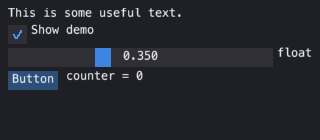
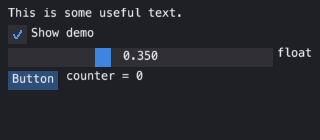
Text in a frame is inset by frame_padding.y
Fields, check-box labels, menu items and combo previews drew their text
against the frame's top edge, frame_padding.y above where the reference puts
it, so it sat high in its box beside a button whose caption is centred. The
README quick-start screenshot is regenerated (the check-box label moves
down 3 px). Suite: 1748 passed.

Changed region(s): [[0.0938, 0.1714, 0.3125, 0.2857]]

diff --git a/emtk/im_widgets.py b/emtk/im_widgets.py
@@ -676,7 +676,7 @@ def checkbox(label: str, value: bool) -> tuple[bool, bool]:
         ctx.draw.add_line((mark[0] + height * 0.45, mark[1] + height - pad),
                           (mark[0] + height - pad, mark[1] + pad), _col(Col.CHECK_MARK), 2.0)
     if shown:
-        ctx.draw.add_text((mark[0] + height + ctx.style.item_inner_spacing[0], box[1]),
+        ctx.draw.add_text((mark[0] + height + ctx.style.item_inner_spacing[0], box[1] + ctx.style.frame_padding[1]),
                           _col(Col.TEXT), shown)
     return (pressed, (not value) if pressed else value)
 
@@ -851,7 +851,7 @@ def selectable(label: str, selected: bool = False, size=None) -> bool:
     if selected or hovered:
         ctx.draw.add_rect_filled((box[0], box[1]), (box[0] + box[2], box[1] + box[3]),
                                  _col(Col.HEADER) if selected else _col(Col.HEADER_HOVERED), 0.0)
-    ctx.draw.add_text((box[0] + ctx.style.frame_padding[0], box[1]), _col(Col.TEXT),
+    ctx.draw.add_text((box[0] + ctx.style.frame_padding[0], box[1] + ctx.style.frame_padding[1]), _col(Col.TEXT),
                       _visible_label(label))
     return pressed
 
@@ -925,7 +925,7 @@ def collapsing_header(label: str, open_: Optional[bool] = None) -> bool:
                              _col(Col.BUTTON_HOVERED) if hovered else _col(Col.BUTTON),
                              ctx.style.frame_rounding)
     arrow = "v" if is_open else ">"
-    ctx.draw.add_text((box[0] + ctx.style.frame_padding[0], box[1]), _col(Col.TEXT),
+    ctx.draw.add_text((box[0] + ctx.style.frame_padding[0], box[1] + ctx.style.frame_padding[1]), _col(Col.TEXT),
                       f"{arrow} {_visible_label(label)}")
     return is_open
 
@@ -1152,7 +1152,7 @@ def input_text(label: str, value: str, hint: str = "", flags: int = 0) -> tuple[
     # Clipped to the field, as the reference's InputText is: a value longer
     # than its box used to run over whatever stood beside it.
     ctx.draw.push_clip_rect((box[0], box[1]), (box[0] + box[2], box[1] + box[3]))
-    ctx.draw.add_text((box[0] + ctx.style.frame_padding[0], box[1]),
+    ctx.draw.add_text((box[0] + ctx.style.frame_padding[0], box[1] + ctx.style.frame_padding[1]),
                       _col(Col.TEXT) if value else _col(Col.TEXT_DISABLED), shown)
     if focused:
         caret = box[0] + ctx.style.frame_padding[0] + ctx.draw.calc_text_size(value)[0]
@@ -1572,7 +1572,7 @@ def begin_menu(label: str, enabled: bool = True) -> bool:
     if hovered or is_open:
         ctx.draw.add_rect_filled((box[0], box[1]), (box[0] + box[2], box[1] + box[3]),
                                  _col(Col.HEADER_HOVERED if hovered else Col.HEADER), 0.0)
-    ctx.draw.add_text((box[0] + ctx.style.frame_padding[0], box[1]),
+    ctx.draw.add_text((box[0] + ctx.style.frame_padding[0], box[1] + ctx.style.frame_padding[1]),
                       _col(Col.TEXT if enabled else Col.TEXT_DISABLED), shown)
     if is_open:
         ctx.push_id(label)
@@ -1596,7 +1596,7 @@ def menu_item(label: str, shortcut: str = "", selected: bool = False,
                                  _col(Col.HEADER_HOVERED), 0.0)
     colour = _col(Col.TEXT if enabled else Col.TEXT_DISABLED)
     mark = "* " if selected else "  "
-    ctx.draw.add_text((box[0] + ctx.style.frame_padding[0], box[1]), colour,
+    ctx.draw.add_text((box[0] + ctx.style.frame_padding[0], box[1] + ctx.style.frame_padding[1]), colour,
                       mark + _visible_label(label))
     if shortcut:
         width = ctx.draw.calc_text_size(shortcut)[0]
@@ -1631,7 +1631,7 @@ def begin_tab_item(label: str) -> bool:
     selected = store.setdefault("selected", shown) == shown
     ctx.draw.add_rect_filled((box[0], box[1]), (box[0] + box[2], box[1] + box[3]),
                              _col(Col.TAB_SELECTED if selected else Col.TAB), 0.0)
-    ctx.draw.add_text((box[0] + ctx.style.frame_padding[0], box[1]), _col(Col.TEXT),
+    ctx.draw.add_text((box[0] + ctx.style.frame_padding[0], box[1] + ctx.style.frame_padding[1]), _col(Col.TEXT),
                       shown)
     same_line()
     return selected
@@ -1654,7 +1654,7 @@ def begin_combo(label: str, preview: str) -> bool:
     ctx.draw.add_rect_filled((box[0], box[1]), (box[0] + box[2], box[1] + box[3]),
                              _col(Col.FRAME_BG_HOVERED if hovered else Col.FRAME_BG),
                              ctx.style.frame_rounding)
-    ctx.draw.add_text((box[0] + ctx.style.frame_padding[0], box[1]), _col(Col.TEXT),
+    ctx.draw.add_text((box[0] + ctx.style.frame_padding[0], box[1] + ctx.style.frame_padding[1]), _col(Col.TEXT),
                       str(preview))
     if store.get("open"):
         ctx.push_id(label)
@@ -2986,7 +2986,7 @@ def plot_lines(label: str, values, overlay: str = "", size=None) -> None:
               for i, v in enumerate(points)]
         ctx.draw.add_polyline(xy, _col(Col.PLOT_LINES), 0, 1.0)
     if overlay:
-        ctx.draw.add_text((box[0] + ctx.style.frame_padding[0], box[1]),
+        ctx.draw.add_text((box[0] + ctx.style.frame_padding[0], box[1] + ctx.style.frame_padding[1]),
                           _col(Col.TEXT), overlay)
     # Drawn, not submitted. A label added with `text()` becomes an item of its
     # own, and then `is_item_hovered()` after a plot asks about the *label* --
@@ -3019,7 +3019,7 @@ def plot_histogram(label: str, values, overlay: str = "", size=None) -> None:
                 (box[0] + (index + 1) * width - 1.0, box[1] + box[3]),
                 _col(Col.PLOT_HISTOGRAM), 0.0)
     if overlay:
-        ctx.draw.add_text((box[0] + ctx.style.frame_padding[0], box[1]),
+        ctx.draw.add_text((box[0] + ctx.style.frame_padding[0], box[1] + ctx.style.frame_padding[1]),
                           _col(Col.TEXT), overlay)
 
 
@@ -4177,7 +4177,7 @@ def begin_docked(name: str, dock_id: int = 0) -> bool:
                                  _col(Col.TAB_SELECTED if selected
                                       else (Col.HEADER_HOVERED if hovered else Col.TAB)),
                                  0.0)
-        ctx.draw.add_text((box[0] + ctx.style.frame_padding[0], box[1]),
+        ctx.draw.add_text((box[0] + ctx.style.frame_padding[0], box[1] + ctx.style.frame_padding[1]),
                           _col(Col.TEXT), shown)
 
     on_top = node["selected"] == key

diff --git a/tests/test_emtk_im.py b/tests/test_emtk_im.py
@@ -233,3 +233,21 @@ def test_a_long_value_is_clipped_to_its_field():
         emtk.end()
     clips = [c for c in painter.calls if c[0] == "push_clip"]
     assert any(abs(c[3] - 40.0) < 0.5 for c in clips)
+
+
+def test_text_sits_in_the_middle_of_its_frame():
+    """A field's text is inset by frame_padding.y, as a button's is centred:
+    it was drawn against the frame's top edge."""
+    painter = RecordingPainter()
+    with emtk.frame(painter, (0, 0, 300, 120)) as ctx:
+        emtk.begin("w", (0, 0, 300, 120))
+        emtk.input_text("##f", "value")
+        field = ctx.get_item_rect()
+        emtk.checkbox("label", False)
+        box = ctx.get_item_rect()
+        emtk.end()
+    pad = ctx.style.frame_padding[1]
+    value = next(t for t in painter.texts if t[5] == "value")
+    label = next(t for t in painter.texts if t[5] == "label")
+    assert abs(value[1] - (field[1] + pad)) < 0.5
+    assert abs(label[1] - (box[1] + pad)) < 0.5
